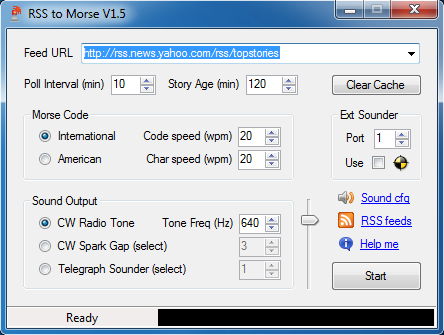
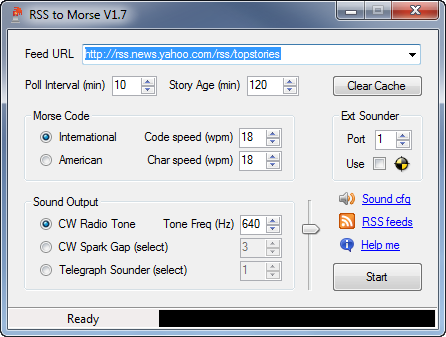
RSS Morse 1.7, higher tone level and even softer shaping. ALso updated the SF web site for 1.7 and the 1.7 help document.

diff --git a/trunk/sfwebsite/index.html b/trunk/sfwebsite/index.html
@@ -33,7 +33,7 @@ Released   : 20091206
 			<h2 class="title"><a href="#">RSS Morse </a></h2>
 			<div class="entry">
 				<p><strong>RSS Morse</strong> periodically reads an RSS feed (commonly a news feed) and translates it into precisely timed International or American Morse code. The Morse code can be played as CW radio tones, old-fashioned CW spark-gap sounds, telegraph sounder click/clack sounds, or to a physical telegraph sounder connected to a serial port. Split speeds are supported for Farnsworth effects. American code generation includes timing nuances that make it sound natural. </p>
-				<div align="center"><a href="rssmorsedoc/rssmorse.html" target="_blank"><img src="images/RSSMorseWindow.png" alt="pic" width="444" height="335" title="Click this image to see the documentation for this program" border="0" /></a><br />
+				<div align="center"><a href="rssmorsedoc/rssmorse.html" target="_blank"><img src="images/RSSMorseWindow.png" alt="pic" width="446" height="337" title="Click this image to see the documentation for this program" border="0" /></a><br />
 					&nbsp;<br />
 					Click <a href="rssmorsedoc/rssmorse.html" target="_blank">this link</a> or the picture to see the help page for this program</div>
 			</div>
@@ -52,8 +52,8 @@ Released   : 20091206
 	<div id="sidebar">
 		<ul>
 			<li>
-			<h2>V1.6 - Softer Tones</h2>			
-			<li>This release has shaped envelopes on the CW tones for more pleasing copy.<li>
+			<h2>V1.7 - Softer Tones &amp; +6db</h2>			
+			<li>This release has shaped envelopes on the CW tones for more pleasing copy, and 6db higher tone level.<li>
 				<h2>OS support &amp; Pre-Requisites</h2>
 				<p>Morse Code Tools runs on Windows XP, Vista, and Windows 7, 32-bit or 64-bit. It requires that you have either the either the <a href="http://www.microsoft.com/downloads/details.aspx?familyid=ab99342f-5d1a-413d-8319-81da479ab0d7&amp;displaylang=en" target="_blank">Microsoft .NET Framework 3.5 SP1</a> or at least the <a href="http://www.microsoft.com/downloads/details.aspx?familyid=5b2c0358-915b-4eb5-9b1d-10e506da9d0f&amp;displaylang=en" target="_blank">Microsoft .NET Framework 2.0 SP2</a> installed.<br />
 					<span style="color: yellow; text-align: left;">Try running the program first, you might already have this!</span></p>
@@ -63,7 +63,7 @@ Released   : 20091206
 				<p>The two programs come together in a packaged installer.<br />
 					&nbsp;<br />
 				</p>
-				<div align="center"><a href="http://downloads.sourceforge.net/project/morse-rss-news/Morse Code Tools 1.6/MorseTools16Setup.exe?use_mirror=softlayer"><img src="images/Download.png" width="150" height="50" alt="" /></a></div>
+				<div align="center"><a href="http://downloads.sourceforge.net/project/morse-rss-news/Morse Code Tools 1.7/MorseTools17Setup.exe?use_mirror=softlayer"><img src="images/Download.png" width="150" height="50" alt="" /></a></div>
 				<br />
 				<p>Run the installer then start the program you want. Click the Help Me link on the program's window for all you need to know!</p>
 			</li>

diff --git a/trunk/locrss/doc/rssmorse.html b/trunk/locrss/doc/rssmorse.html
@@ -4,11 +4,11 @@
 		<meta http-equiv="Content-Type" content="text/html; charset=Windows-1252">
 		<meta http-equiv="Content-Style-Type" content="text/css">
 		<link rel="STYLESHEET" type="text/css" href="dc3doc.css">
-		<title>RSS Morse 1.5</title>
+		<title>RSS Morse 1.7</title>
 </head>
 	<body>
-		<h1><a href="https://sourceforge.net/projects/morse-rss-news/" target="_blank"><img src="RssMorseLogo.png" alt="pic" title="Go to the SourceForge project page"width="96" height="96" hspace="8" border="0" align="right"></a>RSS Morse 1.5 (21-May-2010)	</h1>
-	<p>RSS Morse periodically reads an RSS feed (commmonly a news feed) and tranlates it into International or American Morse Code, which is output as CW radio tones, or telegraph sounder click/clack sounds, or to a physical telegraph sounder connected to a serial port. This  document will hopefully be all you need to get going.</p>
+		<h1><a href="https://sourceforge.net/projects/morse-rss-news/" target="_blank"><img src="RssMorseLogo.png" alt="pic" title="Go to the SourceForge project page"width="96" height="96" hspace="8" border="0" align="right"></a>RSS Morse 1.7 (08-Feb-2011)	</h1>
+	<p>RSS Morse periodically reads an RSS feed (commmonly a news feed) and tranlates it into International or American Morse Code, which is output as CW radio tones, or telegraph sounder click/clack sounds, or to a physical telegraph sounder connected to a serial port. This  document will hopefully be all you need to get going. V1.7 has a higher tone level and shaped CW tone elements to reduce key clicks.</p>
 	<p><span class="yellowbg">Hover the mouse over the controls on the window to get hints on what they do.</span></p>
 	<h2>Quick Start</h2>
 	<ol>

diff --git a/trunk/sfwebsite/rssmorsedoc/rssmorse.html b/trunk/sfwebsite/rssmorsedoc/rssmorse.html
@@ -4,11 +4,11 @@
 		<meta http-equiv="Content-Type" content="text/html; charset=Windows-1252">
 		<meta http-equiv="Content-Style-Type" content="text/css">
 		<link rel="STYLESHEET" type="text/css" href="dc3doc.css">
-		<title>RSS Morse 1.5</title>
+		<title>RSS Morse 1.7</title>
 </head>
 	<body>
-		<h1><a href="https://sourceforge.net/projects/morse-rss-news/" target="_blank"><img src="RssMorseLogo.png" alt="pic" title="Go to the SourceForge project page"width="96" height="96" hspace="8" border="0" align="right"></a>RSS Morse 1.5 (21-May-2010)	</h1>
-	<p>RSS Morse periodically reads an RSS feed (commmonly a news feed) and tranlates it into International or American Morse Code, which is output as CW radio tones, or telegraph sounder click/clack sounds, or to a physical telegraph sounder connected to a serial port. This  document will hopefully be all you need to get going.</p>
+		<h1><a href="https://sourceforge.net/projects/morse-rss-news/" target="_blank"><img src="RssMorseLogo.png" alt="pic" title="Go to the SourceForge project page"width="96" height="96" hspace="8" border="0" align="right"></a>RSS Morse 1.7 (08-Feb-2011)	</h1>
+	<p>RSS Morse periodically reads an RSS feed (commmonly a news feed) and tranlates it into International or American Morse Code, which is output as CW radio tones, or telegraph sounder click/clack sounds, or to a physical telegraph sounder connected to a serial port. This  document will hopefully be all you need to get going. V1.7 has a higher tone level and shaped CW tone elements to reduce key clicks.</p>
 	<p><span class="yellowbg">Hover the mouse over the controls on the window to get hints on what they do.</span></p>
 	<h2>Quick Start</h2>
 	<ol>

diff --git a/trunk/dxsound/DxTones.cs b/trunk/dxsound/DxTones.cs
@@ -27,6 +27,10 @@
 // 19-May-10	rbd		1.5.0 - Stop before Down, prevent stuttering
 // 03-Sep-10	rbd		1.6.0 - Generate tone on the fly for shaping, add LPF and
 //						envelope shaping for clean tones.
+// 03-Feb-11	rbd		1.7.0 - Soften tones more via additional envelope smoothing.
+//						Increase the amplitude, was too weak requiring maxing out
+//						of audio settings, especially for recording via "Stereo mix"
+//						bus on Windows.
 //
 using System;
 using System.Collections.Generic;
@@ -73,7 +77,7 @@ namespace com.dc3.morse
 		//
 		private void genWaveBuf(int duration)
 		{
-			_waveBuf = GenTone(_freq, 0.3, duration);
+			_waveBuf = GenTone(_freq, 0.9, duration);
 
 			_waveFmt = new WaveFormat();
 			_waveFmt.BitsPerSample = (short)_bitsPerSample;
@@ -105,12 +109,13 @@ namespace com.dc3.morse
             byte[] wavedata = new byte[length * 2];
 			double timeScale = frequency * 2 * Math.PI / (double)_sampleRate;
 
-            int envelopeSamples = (int)(2.0 * (_sampleRate / frequency));			// Two cycles linear attack/decay
+			// int envelopeSamples = (int)(2.0 * (_sampleRate / frequency));		// Two cycles linear attack/decay
+			int envelopeSamples = (int)(_sampleRate * 0.005);						// 5ms constant attack/decay (1.7)
 			double xo = 0;
 			double yo = 0;
             for (int i = 0; i < length; i++)
             {
-				double a0 = amp * Math.Min((double)i / envelopeSamples, 1.0);	// Envelope
+				double a0 = amp * Math.Min((double)i / envelopeSamples, 1.0);		// Envelope
 				a0 = a0 * Math.Min((double)(length - i) / envelopeSamples, 1.0);
 
 				double xn = Math.Sin(i * timeScale);

diff --git a/trunk/locrss/MainForm.Designer.cs b/trunk/locrss/MainForm.Designer.cs
@@ -571,13 +571,13 @@ namespace com.dc3
 			this.contextMenuStrip1.Name = "contextMenuStrip1";
 			this.contextMenuStrip1.ShowImageMargin = false;
 			this.contextMenuStrip1.ShowItemToolTips = false;
-			this.contextMenuStrip1.Size = new System.Drawing.Size(155, 26);
+			this.contextMenuStrip1.Size = new System.Drawing.Size(153, 26);
 			// 
 			// mnuUrlResetToDefault
 			// 
 			this.mnuUrlResetToDefault.DisplayStyle = System.Windows.Forms.ToolStripItemDisplayStyle.Text;
 			this.mnuUrlResetToDefault.Name = "mnuUrlResetToDefault";
-			this.mnuUrlResetToDefault.Size = new System.Drawing.Size(154, 22);
+			this.mnuUrlResetToDefault.Size = new System.Drawing.Size(152, 22);
 			this.mnuUrlResetToDefault.Text = "Reset to original list";
 			this.mnuUrlResetToDefault.Click += new System.EventHandler(this.mnuUrlResetToDefault_Click);
 			// 
@@ -669,7 +669,7 @@ namespace com.dc3
 			this.MaximizeBox = false;
 			this.Name = "MainForm";
 			this.SizeGripStyle = System.Windows.Forms.SizeGripStyle.Hide;
-			this.Text = "RSS to Morse V1.5";
+			this.Text = "RSS to Morse V1.7";
 			this.Load += new System.EventHandler(this.MainForm_Load);
 			this.FormClosing += new System.Windows.Forms.FormClosingEventHandler(this.MainForm_FormClosing);
 			this.statusStrip1.ResumeLayout(false);

diff --git a/trunk/dxsound/Properties/AssemblyInfo.cs b/trunk/dxsound/Properties/AssemblyInfo.cs
@@ -32,5 +32,5 @@ using System.Runtime.InteropServices;
 // You can specify all the values or you can default the Build and Revision Numbers 
 // by using the '*' as shown below:
 // [assembly: AssemblyVersion("1.0.*")]
-[assembly: AssemblyVersion("1.6.0.0")]
-[assembly: AssemblyFileVersion("1.6.0.0")]
+[assembly: AssemblyVersion("1.7.0.0")]
+[assembly: AssemblyFileVersion("1.7.0.0")]

diff --git a/trunk/locrss/Properties/AssemblyInfo.cs b/trunk/locrss/Properties/AssemblyInfo.cs
@@ -36,5 +36,5 @@ using System.Runtime.InteropServices;
 // You can specify all the values or you can default the Build and Revision Numbers 
 // by using the '*' as shown below:
 // [assembly: AssemblyVersion("1.0.*")]
-[assembly: AssemblyVersion("1.6.1.0")]
-[assembly: AssemblyFileVersion("1.6.1.0")]
+[assembly: AssemblyVersion("1.7.1.0")]
+[assembly: AssemblyFileVersion("1.7.1.0")]
